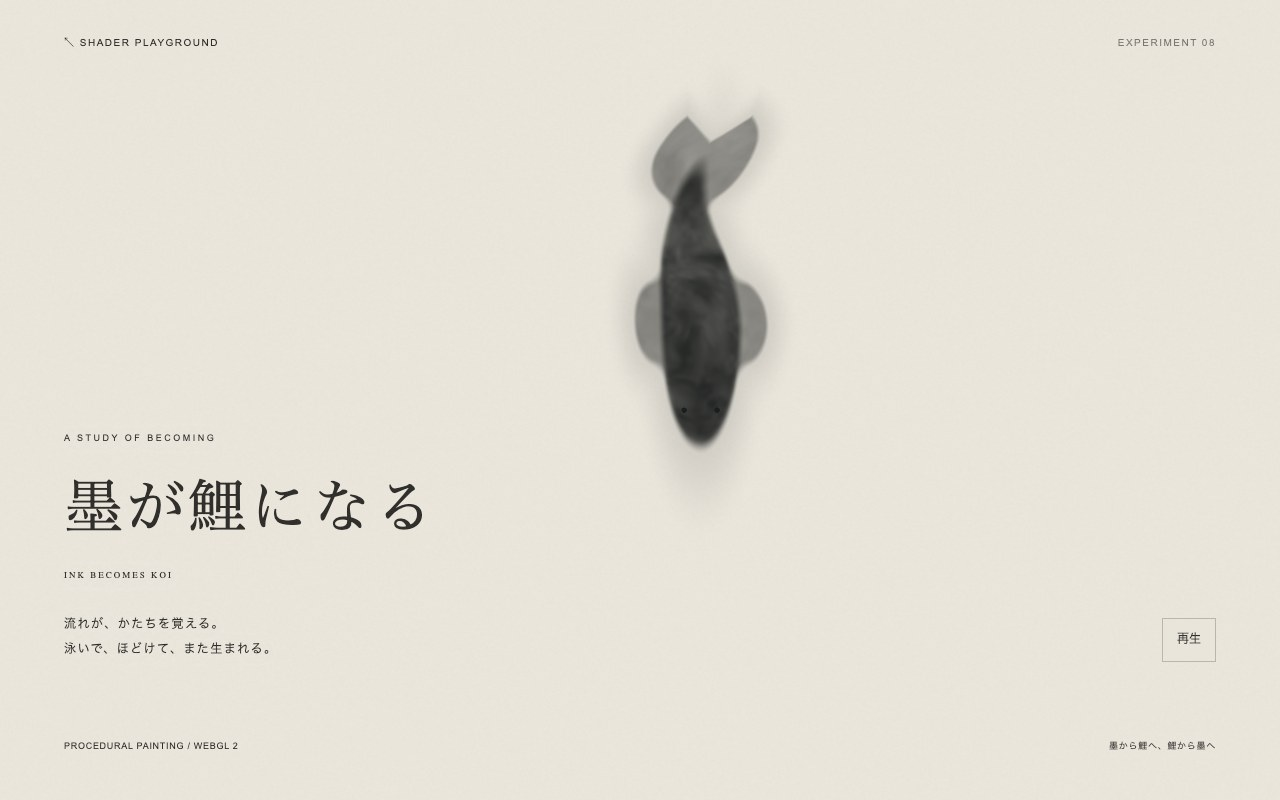
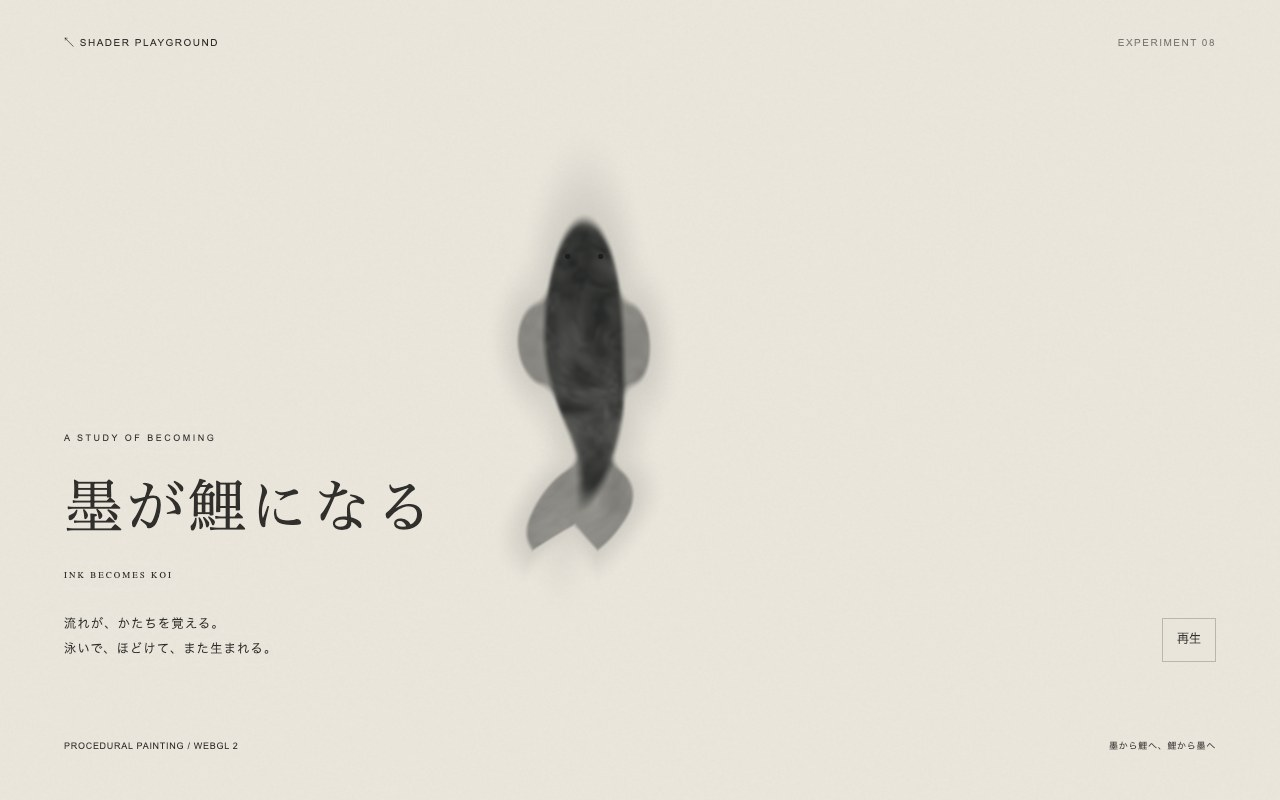
fix: accelerate formed koi and turn inward near canvas edges

Changed region(s): [[0.4062, 0.125, 0.625, 0.6875]]

diff --git a/ink-to-koi/README.md b/ink-to-koi/README.md
@@ -7,6 +7,7 @@
 - リポジトリルートで `python3 -m http.server 8765` を起動し、`http://localhost:8765/ink-to-koi/` を開きます。
 - `ink.frag` が墨と鯉の距離場を滑らかに補間し、共通の座標変形で流れ・尾の動きを描画します。物理流体シミュレーションではありません。
 - 全ての動きは24秒周期の正弦・余弦を使います。ループ境界で乱数の再生成や絵の切り替えを行いません。
+- 鯉の姿になる時間帯は泳ぎの進行を最大30%加速。画面サイズと尾の余白から遊泳範囲を求め、外側で滑らかに旋回して中央を通る経路へ戻ります。
 - 描画解像度は約140万画素まで。非表示タブ・一時停止時は連続描画を止めます。WebGLのコンテキスト復帰に対応します。
 - WebGL 2非対応時は背景と案内文を表示します。
 - 独自実装・描画プレビューともにリポジトリの [MIT License](../LICENSE) を適用します。
@@ -18,7 +19,8 @@ GitHub Pages の公開は既存と同じ `main` / ルート。公開後のパス
 ローカルHTTP配信とChromeの実描画で確認しました。
 
 - 1280×800 / 390×844：描画成功、横はみ出しなし。0 / 6 / 12 / 18 / 23.99秒の描画画像を確認。
-- 同一シェーダーに0秒と24秒を渡した画像差は全409万6000チャンネル中、差の絶対値合計69（8bit単位）。浮動小数点誤差の範囲で接続。
+- 同一シェーダーに0秒と24秒を渡した画像差は全409万6000チャンネル中、差の絶対値合計45（8bit単位）。浮動小数点誤差の範囲で接続。
+- 遊泳経路を2401点で計算し、1280×800 / 390×844 / 844×390 / 320×568で鯉の余白と外側から中央方向への旋回を確認。
 - 一時停止中の画像が一致、再開後は変化。モーション低減時は停止状態。
 - トップの作品カードから遷移、WebGL非対応の案内、コンテキスト喪失からの再描画を確認。
 - 通常描画のコンソールエラー・WebGLエラーなし。JavaScript構文・`git diff --check` 成功。
